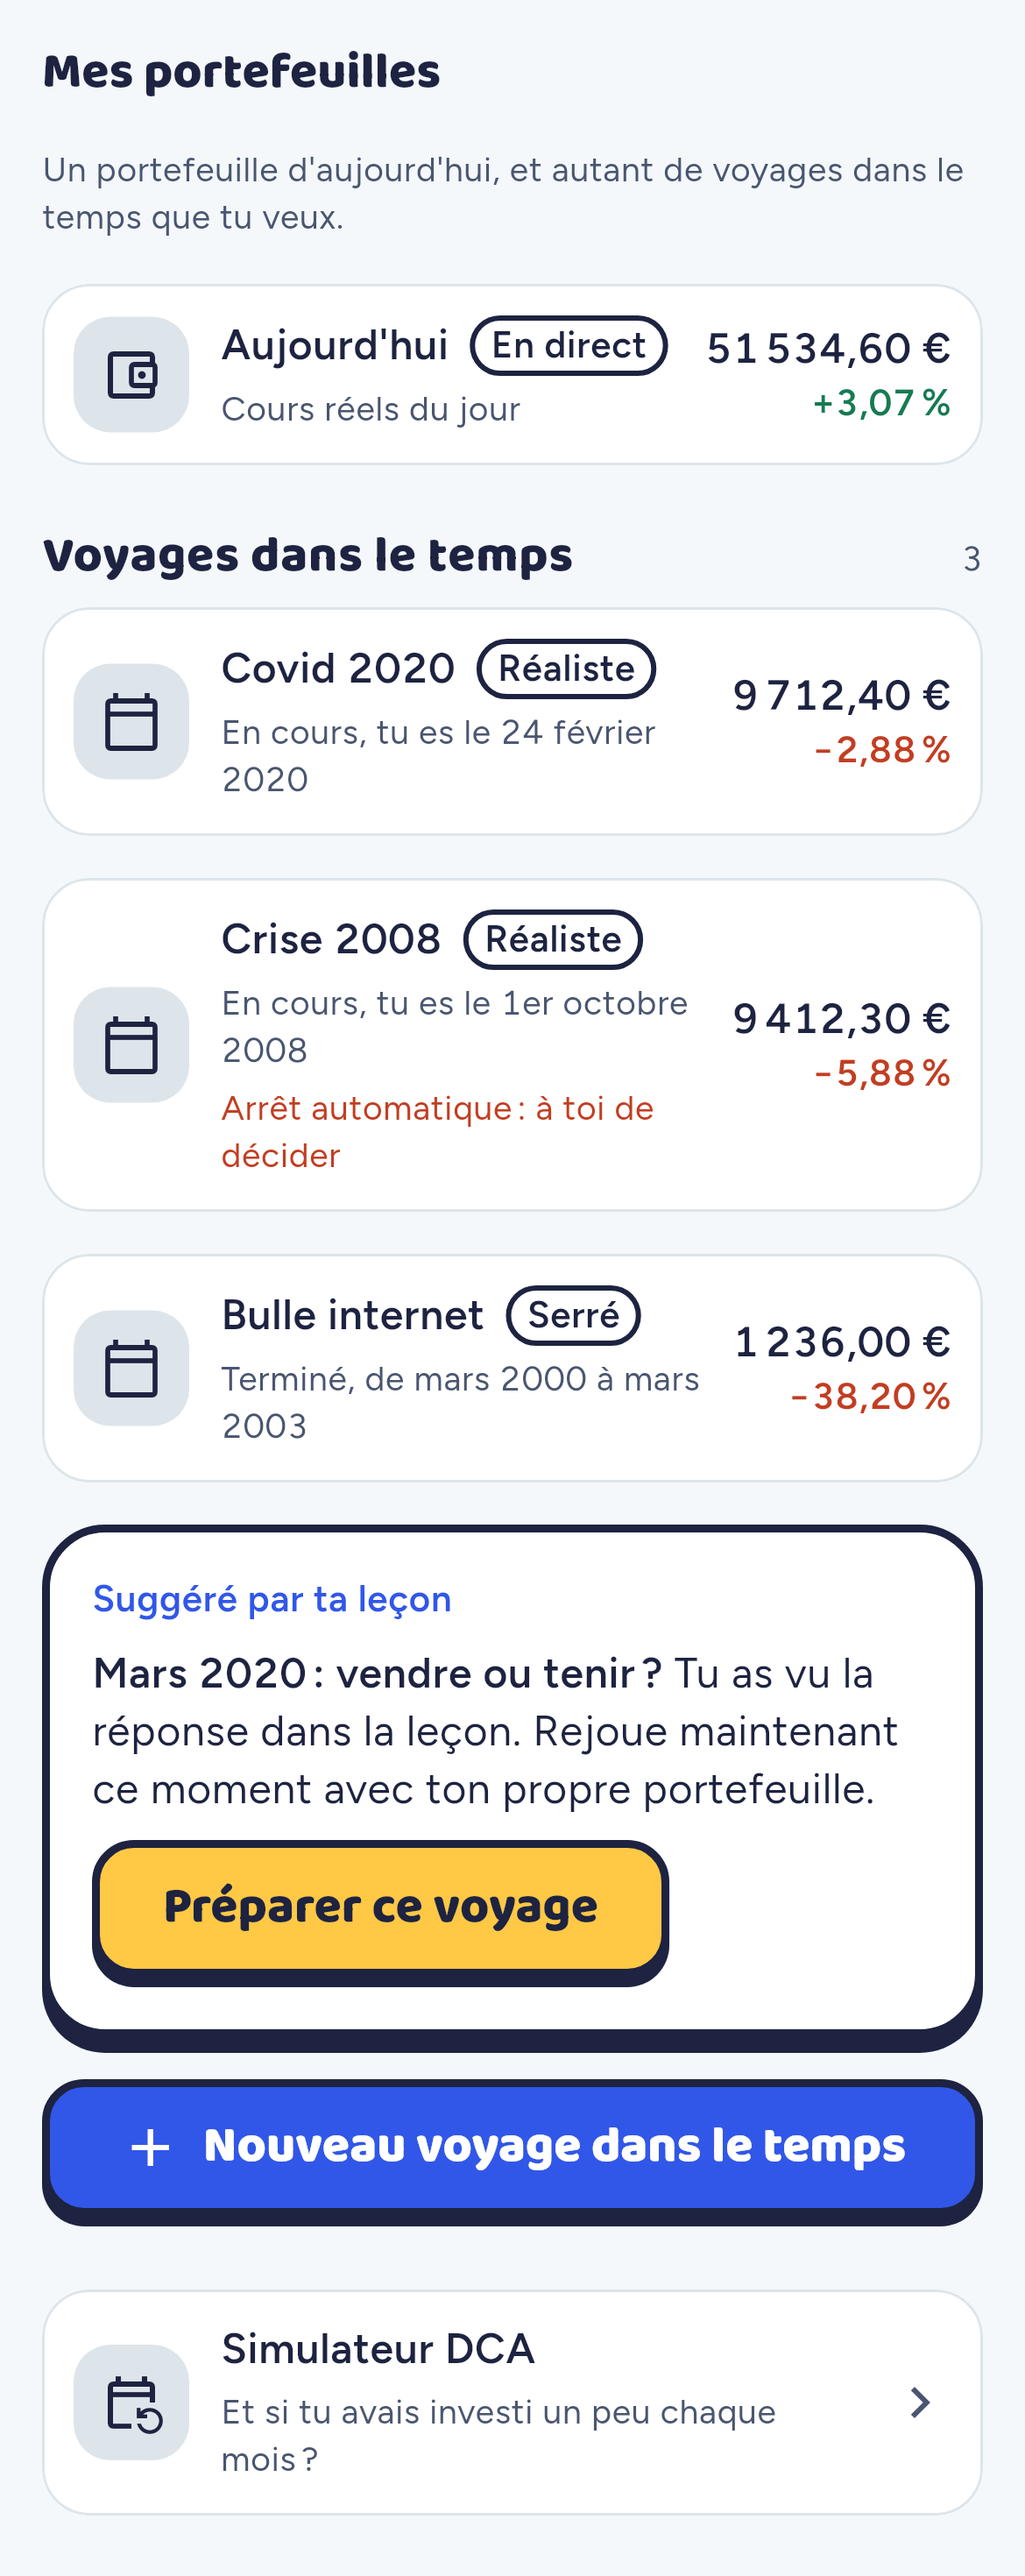
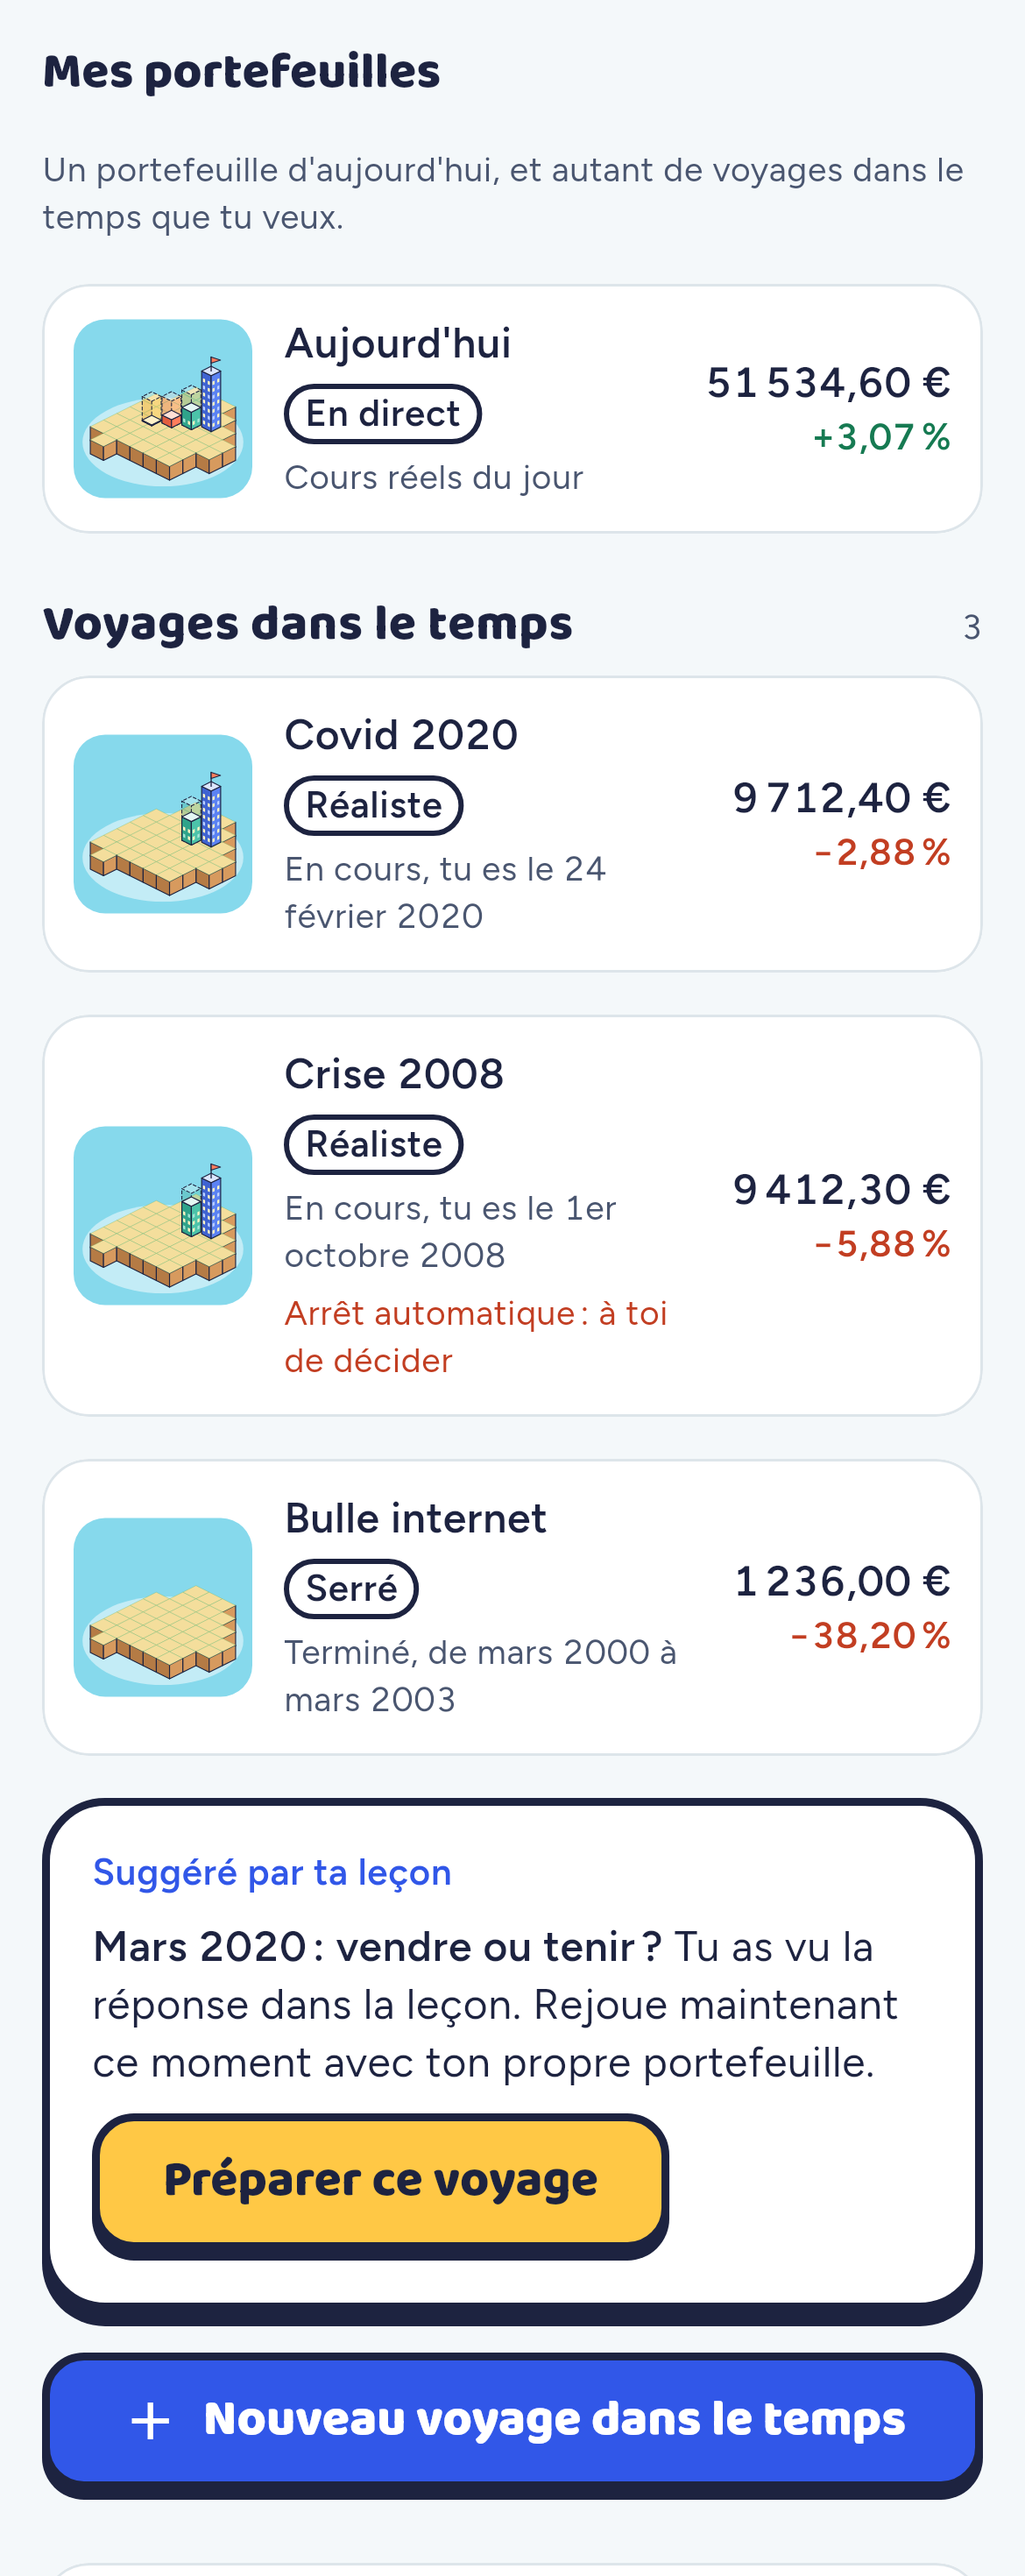
M11-3: Each wallet shows its own island in the Portfolio tab

diff --git a/app/test/presentation/features/wallets_screen_test.dart b/app/test/presentation/features/wallets_screen_test.dart
@@ -1,4 +1,7 @@
 import 'package:decimal/decimal.dart';
+import 'package:finance_companion/application/learning/content.dart';
+import 'package:finance_companion/application/learning/island_path.dart';
+import 'package:finance_companion/application/wallet/living_island.dart';
 import 'package:finance_companion/application/wallet/wallet_overview.dart';
 import 'package:finance_companion/application/wallet/wallet_providers.dart';
 import 'package:finance_companion/application/wallet/wallets_list.dart';
@@ -6,10 +9,13 @@ import 'package:finance_companion/core/money/money.dart';
 import 'package:finance_companion/data/repositories/wallet_repository.dart';
 import 'package:finance_companion/domain/analytics/returns.dart';
 import 'package:finance_companion/domain/learning/content.dart';
+import 'package:finance_companion/domain/wallet/island_buildings.dart';
 import 'package:finance_companion/domain/wallet/order.dart';
 import 'package:finance_companion/domain/wallet/trip_engine.dart';
 import 'package:finance_companion/domain/wallet/wallet.dart';
 import 'package:finance_companion/main.dart';
+import 'package:finance_companion/presentation/features/map/archipelago.dart';
+import 'package:finance_companion/presentation/features/wallets/wallet_islet.dart';
 import 'package:finance_companion/presentation/features/wallets/wallets_screen.dart';
 import 'package:flutter/material.dart';
 import 'package:flutter_riverpod/flutter_riverpod.dart';
@@ -78,7 +84,11 @@ WalletOverview valued(String id, String start, String value) => buildOverview(
   livret: Decimal.zero,
 );
 
-Future<GoRouter> show(WidgetTester tester, WalletsList list) async {
+Future<GoRouter> show(
+  WidgetTester tester,
+  WalletsList list, {
+  Map<String, List<IslandBuilding>> islands = const {},
+}) async {
   tester.platformDispatcher.localesTestValue = [const Locale('fr')];
   addTearDown(tester.platformDispatcher.clearLocalesTestValue);
   tester.view.physicalSize = const Size(1170, 4000);
@@ -102,6 +112,13 @@ Future<GoRouter> show(WidgetTester tester, WalletsList list) async {
           (ref, id) async => id == 'live'
               ? valued(id, '50000', '51598.14')
               : valued(id, '10000', '9800'),
+        ),
+        walletIslandProvider.overrideWith(
+          (ref, args) async => islands[args.$1] ?? const [],
+        ),
+        // The islets green Actions & ETF as the lessons did: none here.
+        islandPathProvider(actionsEtfIsland).overrideWith(
+          (ref) async => const IslandPathView(Localized('x', 'x'), []),
         ),
       ],
       child: MainApp(router: router),
@@ -163,6 +180,60 @@ void main() {
     await tester.tap(find.text('Crise 2008'));
     await tester.pumpAndSettle();
     expect(find.text('wallet t1'), findsOneWidget);
+  });
+
+  testWidgets('each wallet shows its own island (M11-3)', (tester) async {
+    await show(
+      tester,
+      WalletsList(
+        live: summary('live', WalletKind.live),
+        trips: [summary('t1', WalletKind.trip)],
+        suggestions: const [],
+      ),
+      islands: {
+        'live': [
+          IslandBuilding('world', height: Decimal.one, built: Decimal.one),
+          IslandBuilding(
+            'apple',
+            height: Decimal.parse('0.5'),
+            built: Decimal.zero,
+          ),
+        ],
+      },
+    );
+    ArchipelagoPainter painterOf(String label) {
+      final islet = find.ancestor(
+        of: find.byType(CustomPaint),
+        matching: find.byWidgetPredicate(
+          (w) => w is WalletIslet && w.label == label,
+        ),
+      );
+      return tester
+              .widget<CustomPaint>(
+                find.descendant(of: islet, matching: find.byType(CustomPaint)),
+              )
+              .painter!
+          as ArchipelagoPainter;
+    }
+
+    // The live wallet's two buildings, the second still a ghost; the trip
+    // holds nothing yet: its island bare.
+    final live = painterOf('Ton île').buildings;
+    expect(live, hasLength(2));
+    expect(live.last.ghost, 1);
+    expect(painterOf('La ville du voyage Crise 2008').buildings, isEmpty);
+    // Each row is one button for screen readers, its islet said first.
+    expect(
+      find.bySemanticsLabel(RegExp(r"^Ton île\nAujourd'hui")),
+      findsOneWidget,
+    );
+    expect(
+      find.bySemanticsLabel(
+        RegExp(r'^La ville du voyage Crise 2008\nCrise 2008'),
+      ),
+      findsOneWidget,
+    );
+    expect(tester.getSize(find.byType(WalletIslet).first), const Size(68, 68));
   });
 
   testWidgets('no trips yet: no count, the way to start one', (tester) async {

diff --git a/app/lib/presentation/features/wallets/wallets_screen.dart b/app/lib/presentation/features/wallets/wallets_screen.dart
@@ -18,6 +18,7 @@ import '../../../domain/wallet/wallet.dart';
 import '../../widgets/section_title.dart';
 import '../../widgets/sign_color.dart';
 import '../node/node_screen.dart' show LessonCard;
+import 'wallet_islet.dart';
 
 /// The Portefeuille tab (BRIEF §3, artboard Wallets-A): the live wallet, the
 /// time trips, the lessons the user can replay as a trip, a new trip, and the
@@ -85,7 +86,7 @@ class WalletsScreen extends ConsumerWidget {
             const SizedBox(height: AppSpace.x6),
             // The sandbox's other tool (BRIEF §4.10).
             _Row(
-              icon: Icons.event_repeat_outlined,
+              leading: const _IconTile(Icons.event_repeat_outlined),
               onTap: () => context.push('/tools/dca'),
               lines: [
                 Text(l10n.wallets_dca_title, style: AppText.bodyStrong),
@@ -123,18 +124,17 @@ String _difficulty(AppLocalizations l10n, String id) => switch (id) {
   final other => other,
 };
 
-/// A flat row of the list: an icon tile (neutral, §10.2: no token means the
-/// artboard's tints), what it is, then [trailing]. The whole row opens
-/// [onTap].
+/// A flat row of the list: [leading] (a wallet's islet, a tool's icon), what
+/// it is, then [trailing]. The whole row opens [onTap].
 class _Row extends StatelessWidget {
   const _Row({
-    required this.icon,
+    required this.leading,
     required this.lines,
     required this.onTap,
     this.trailing,
   });
 
-  final IconData icon;
+  final Widget leading;
   final List<Widget> lines;
   final VoidCallback onTap;
   final Widget? trailing;
@@ -148,15 +148,7 @@ class _Row extends StatelessWidget {
         padding: const EdgeInsets.all(AppSpace.x3),
         child: Row(
           children: [
-            Container(
-              width: AppSpace.minTarget,
-              height: AppSpace.minTarget,
-              decoration: BoxDecoration(
-                color: AppColors.line,
-                borderRadius: BorderRadius.circular(AppShape.flatButtonRadius),
-              ),
-              child: Icon(icon, color: AppColors.ink),
-            ),
+            leading,
             const SizedBox(width: AppSpace.x3),
             Expanded(
               child: Column(
@@ -173,6 +165,24 @@ class _Row extends StatelessWidget {
         ),
       ),
     ),
+  );
+}
+
+/// A tool's icon on a neutral tile (§10.2: no token means the artboard's
+/// tints).
+class _IconTile extends StatelessWidget {
+  const _IconTile(this.icon);
+  final IconData icon;
+
+  @override
+  Widget build(BuildContext context) => Container(
+    width: AppSpace.minTarget,
+    height: AppSpace.minTarget,
+    decoration: BoxDecoration(
+      color: AppColors.line,
+      borderRadius: BorderRadius.circular(AppShape.flatButtonRadius),
+    ),
+    child: Icon(icon, color: AppColors.ink),
   );
 }
 
@@ -234,9 +244,12 @@ class _WalletRow extends ConsumerWidget {
     };
 
     return _Row(
-      icon: live
-          ? Icons.account_balance_wallet_outlined
-          : Icons.calendar_today_outlined,
+      leading: WalletIslet(
+        walletId: wallet.id,
+        label: live
+            ? l10n.wallets_islet_live
+            : l10n.wallets_islet_trip(wallet.name),
+      ),
       onTap: () => context.push('/wallet/${wallet.id}'),
       lines: [
         Wrap(

diff --git a/app/lib/presentation/features/wallets/wallet_islet.dart b/app/lib/presentation/features/wallets/wallet_islet.dart
@@ -1,0 +1,65 @@
+import 'package:flutter/material.dart';
+import 'package:flutter_riverpod/flutter_riverpod.dart';
+
+import '../../../application/learning/content.dart';
+import '../../../application/learning/island_path.dart';
+import '../../../application/wallet/living_island.dart';
+import '../../../core/theme/tokens.dart';
+import '../map/archipelago.dart';
+import '../map/living_island.dart';
+
+/// A wallet's island on a square of sea, in its card of the Portefeuille tab
+/// (BRIEF §4.5, M11-3): its buildings as the map draws them, on Actions & ETF
+/// as the lessons greened it. Still: a list does not animate.
+class WalletIslet extends ConsumerWidget {
+  const WalletIslet({super.key, required this.walletId, required this.label});
+
+  final String walletId;
+
+  /// What screen readers say: whose island it is.
+  final String label;
+
+  static const size = 68.0;
+
+  /// The island at the map's scale, scaled down to [size].
+  static const _drawn = Size(230, 200);
+
+  @override
+  Widget build(BuildContext context, WidgetRef ref) {
+    final buildings = drawnBuildings(
+      ref.watch(walletIslandProvider(walletId)).value ?? const [],
+    );
+    final path = ref.watch(islandPathProvider(actionsEtfIsland)).value;
+    return Semantics(
+      image: true,
+      label: label,
+      child: Container(
+        width: size,
+        height: size,
+        clipBehavior: Clip.antiAlias,
+        decoration: BoxDecoration(
+          color: AppColors.sea,
+          borderRadius: BorderRadius.circular(AppSpace.x3),
+        ),
+        child: FittedBox(
+          child: SizedBox.fromSize(
+            size: _drawn,
+            child: CustomPaint(
+              painter: ArchipelagoPainter(
+                buildings: buildings,
+                only: archipelago.firstWhere(
+                  (i) => i.id == IslandId.actionsEtf,
+                ),
+                grown: switch (path) {
+                  final path? when path.nodes.isNotEmpty =>
+                    path.done / path.nodes.length,
+                  _ => 1,
+                },
+              ),
+            ),
+          ),
+        ),
+      ),
+    );
+  }
+}

diff --git a/app/screenshots/wallets_test.dart b/app/screenshots/wallets_test.dart
@@ -1,4 +1,5 @@
 import 'package:decimal/decimal.dart';
+import 'package:finance_companion/application/wallet/living_island.dart';
 import 'package:finance_companion/application/wallet/wallet_overview.dart';
 import 'package:finance_companion/application/wallet/wallet_providers.dart';
 import 'package:finance_companion/application/wallet/wallets_list.dart';
@@ -6,6 +7,7 @@ import 'package:finance_companion/core/money/money.dart';
 import 'package:finance_companion/data/repositories/wallet_repository.dart';
 import 'package:finance_companion/domain/analytics/returns.dart';
 import 'package:finance_companion/domain/learning/content.dart';
+import 'package:finance_companion/domain/wallet/island_buildings.dart';
 import 'package:finance_companion/domain/wallet/order.dart';
 import 'package:finance_companion/domain/wallet/trip_engine.dart';
 import 'package:finance_companion/domain/wallet/wallet.dart';
@@ -83,6 +85,17 @@ void main() {
     'lehman': valued('10000', '9412.30'),
     'bubble': valued('2000', '1236.00'),
   };
+  final islands = {
+    'live': [
+      ('world', '1', '1'),
+      ('apple', '0.5', '0.5'),
+      ('asml', '0.3', '0.3'),
+      ('coca-cola', '0.25', '0'),
+    ],
+    'covid': [('world', '1', '1'), ('sp500', '0.6', '0.6')],
+    'lehman': [('sp500', '1', '1'), ('coca-cola', '0.7', '0.7')],
+    'bubble': const <(String, String, String)>[],
+  };
   screenshot(
     'm4-7-wallets',
     const WalletsScreen(),
@@ -137,6 +150,17 @@ void main() {
         ),
       ),
       walletOverviewProvider.overrideWith((ref, id) async => values[id]!),
+      // Each wallet's own city: the live one with a buy still waiting.
+      walletIslandProvider.overrideWith(
+        (ref, args) async => [
+          for (final (asset, height, built) in islands[args.$1]!)
+            IslandBuilding(
+              asset,
+              height: Decimal.parse(height),
+              built: Decimal.parse(built),
+            ),
+        ],
+      ),
     ],
   );
 }

diff --git a/docs/BRIEF.md b/docs/BRIEF.md
@@ -348,8 +348,9 @@ Wallet kinds: `live` (exactly one, created at first launch) and `trip` (0..n).
 
 **Wallets list** (the Portefeuille tab; layout decided 2026-10-24, artboard `Wallets-A` of the art direction
 canvas, money family §10.1): « Mes portefeuilles », and under it « Un portefeuille d'aujourd'hui, et autant de
-voyages dans le temps que tu veux. » Each wallet is a flat row: an icon tile (a wallet for the live one, a
-calendar for a trip), its name and a chip, a status line, and on the right its value over its change in %
+voyages dans le temps que tu veux. » Each wallet is a flat row: its islet (decided 2026-10-28, M11-3: the
+wallet's buildings on Actions & ETF as the map draws them and as the lessons greened it, on a 68 px square of
+`sea`, still; « Ton île » or « La ville du voyage {nom} » for screen readers), its name and a chip, a status line, and on the right its value over its change in %
 (signed; the amount when nothing was put in). The live wallet is « Aujourd'hui », chip « En direct », « Cours
 réels du jour ». A trip's chip is its difficulty; its status line reads « En cours, tu es le {date} » until it
 ends (a stopped trip adds « Arrêt automatique : à toi de décider » in `alertText`), then « Terminé, de {mois} à
@@ -1145,7 +1146,9 @@ main line and marks where it ends with a dot.
 No decorative color. A screen state (e.g. being in a trip) is signalled by content (date, icon, label), not
 by tinting the screen. One exception (decided 2026-10-13): the painted archipelago (§4.2) uses the art
 direction's own colours (sand, grass, dirt, coloured buildings, grey stone), tokens of their own
-(`MapPalette`), on the map and the island path's islets (§4.3) only; they draw a place and carry no meaning. A second
+(`MapPalette`), on the map and the island path's islets (§4.3) only; they draw a place and carry no meaning.
+Since M11-3 (decided 2026-10-28) they, and `sea` under them, may also draw a small world scene inside a money
+screen: a wallet's islet (§4.5); still a place, never a tint. A second
 (decided 2026-10-24, M9-29): a stock's avatar shows its company's logo, in the company's colours, bundled
 with the app (`go run ./cmd/logos`) and credited in « À propos »; it identifies the company and carries no
 other meaning. ETFs keep their two letters (§10.1). Selected tabs, segments and chips use the neutral `line` container; app bars use
